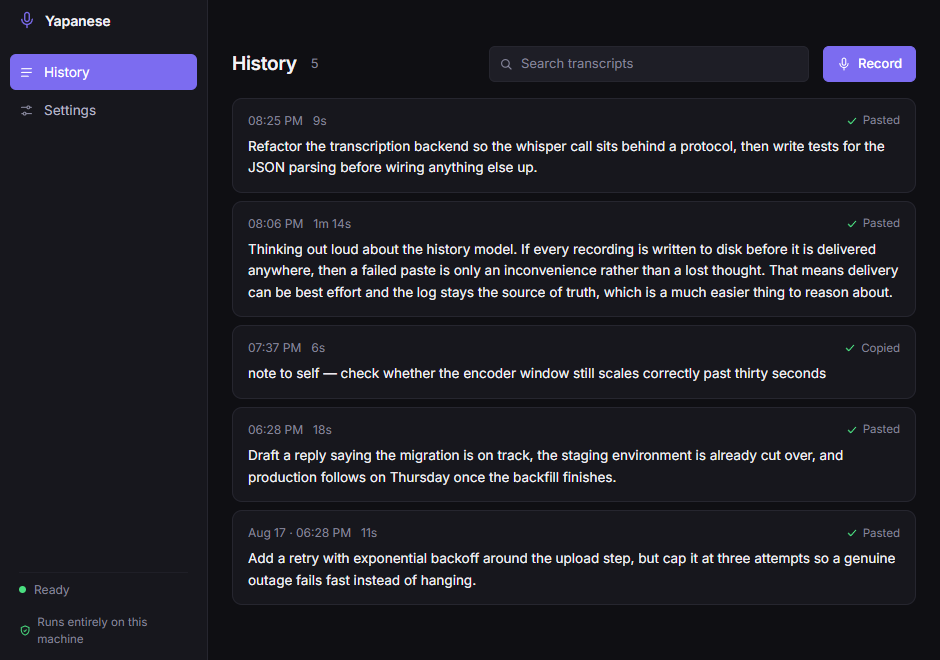
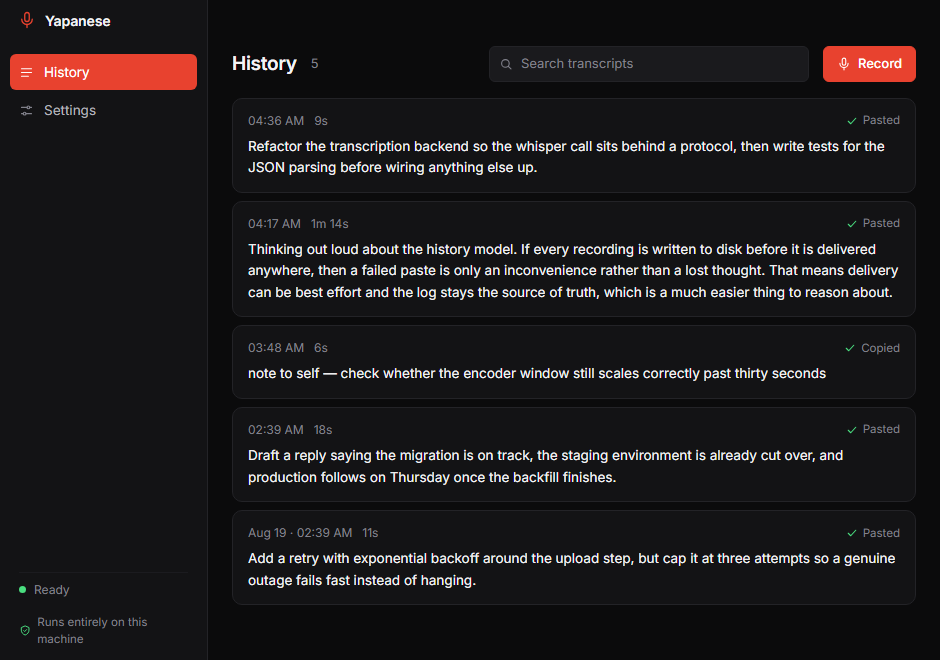
Add a portable build, refresh the artwork, bump to 0.2.0
A portable target alongside the installer, for people who will not run
an installer at all — same app, single exe, no install step.

The screenshots and the social card still showed the purple UI, so
they are regenerated. The last stragglers in the social card are gone
too: the accented word, the old rose used for the recording state, and
a set of greys that carried the blue cast the palette moved away from.

demo.gif is deliberately not regenerated here. Recording it plays a
speech sample out loud so the microphone genuinely hears it, which is
what lets the caption claim a real capture, and that needs a room you
can make noise in.

Claude-Session: https://claude.ai/code/session_0172VzhrzAjsy1jUc1gihPHJ

diff --git a/tools/social-card.html b/tools/social-card.html
@@ -9,8 +9,8 @@
   html, body { width: 1280px; height: 640px; overflow: hidden; }
   body {
     font-family: 'Inter', system-ui, sans-serif;
-    background: #0d0d11;
-    color: #f2f2f5;
+    background: #0b0b0c;
+    color: #f4f4f5;
     position: relative;
     display: grid;
     grid-template-columns: 1fr 430px;
@@ -49,10 +49,10 @@
     font-size: 38px; font-weight: 500; line-height: 1.22;
     letter-spacing: -.018em; margin-bottom: 18px; max-width: 15ch;
   }
-  .tag em { font-style: normal; color: #9384f5; }
+  .tag em { font-style: normal; color: #ff5a45; }
 
   .sub {
-    font-size: 19px; line-height: 1.6; color: #9a9aa8;
+    font-size: 19px; line-height: 1.6; color: #9a9aa2;
     max-width: 40ch; margin-bottom: 38px;
   }
 
@@ -60,10 +60,10 @@
   .fact {
     font-size: 14px; font-weight: 500;
     padding: 8px 15px; border-radius: 999px;
-    border: 1px solid #2a2a35; background: #16161d; color: #b6b6c4;
+    border: 1px solid #242428; background: #16161d; color: #b4b4bb;
     display: inline-flex; align-items: center; gap: 8px;
   }
-  .fact b { color: #f2f2f5; font-weight: 600; }
+  .fact b { color: #f4f4f5; font-weight: 600; }
   .dot { width: 7px; height: 7px; border-radius: 50%; background: #4ade80; }
 
   /* Right: the overlay, at the moment it confirms a paste. */
@@ -72,27 +72,27 @@
   .pill {
     display: flex; align-items: center; gap: 14px;
     padding: 17px 26px; border-radius: 999px;
-    background: rgba(23,23,29,.96);
+    background: rgba(19,19,21,.96);
     border: 1px solid rgba(255,255,255,.10);
     box-shadow: 0 26px 60px -14px rgba(0,0,0,.85), 0 0 0 1px rgba(232,66,47,.12);
     white-space: nowrap;
   }
   .lamp { width: 11px; height: 11px; border-radius: 50%; flex: 0 0 auto; }
-  .pill.rec .lamp { background: #f0616d; box-shadow: 0 0 0 7px rgba(240,97,109,.16); }
+  .pill.rec .lamp { background: #e8422f; box-shadow: 0 0 0 7px rgba(232,66,47,.16); }
   .pill.ok  .lamp { background: #4ade80; }
   .meter { display: flex; align-items: center; gap: 3px; height: 26px; }
   .meter i { width: 4px; border-radius: 2px; background: #e8422f; display: block; }
-  .time { font-size: 16px; margin-left: auto; font-variant-numeric: tabular-nums; color: #f2f2f5; }
+  .time { font-size: 16px; margin-left: auto; font-variant-numeric: tabular-nums; color: #f4f4f5; }
   .msg  { font-size: 16px; color: #a7e8bd; }
 
   .keys { display: flex; align-items: center; gap: 9px; justify-content: center; }
   kbd {
     font-family: inherit; font-size: 14px; font-weight: 500;
-    background: #1c1c24; border: 1px solid #30303c; border-bottom-width: 3px;
+    background: #19191b; border: 1px solid #2c2c30; border-bottom-width: 3px;
     border-radius: 8px; padding: 8px 14px; color: #d7dade;
   }
-  .plus { color: #6c6c7d; font-size: 14px; }
-  .caption { font-size: 14px; color: #6c6c7d; text-align: center; }
+  .plus { color: #6c6c74; font-size: 14px; }
+  .caption { font-size: 14px; color: #6c6c74; text-align: center; }
 </style>
 </head>
 <body>
